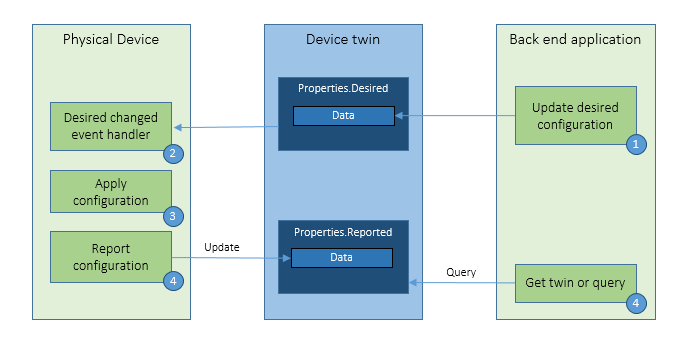
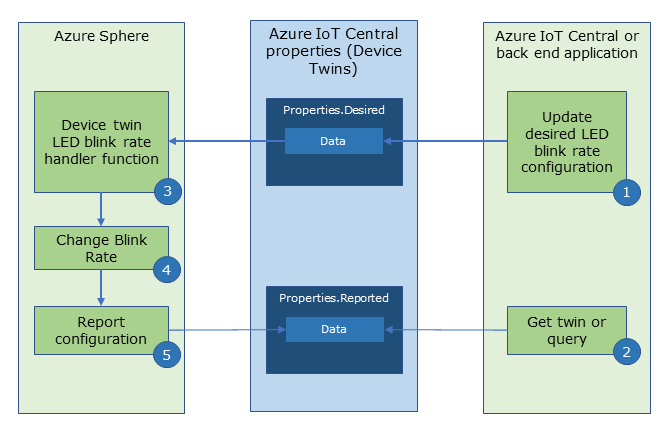
doco

diff --git a/zdocs/Lab_3_Control_Device_with_Device_Twins_and_Direct_Methods/README.md b/zdocs/Lab_3_Control_Device_with_Device_Twins_and_Direct_Methods/README.md
@@ -51,7 +51,7 @@ There are three ways that Azure IoT cloud applications can communicate with devi
 
 [Cloud-to-device](https://docs.microsoft.com/en-us/azure/iot-hub/iot-hub-devguide-messages-c2d) messages for one-way notifications to the device app.
 
-This lab will cover Azure Iot Device Twins and Direct Methods.
+This lab will cover Azure IoT Device Twins and Direct Methods.
 
 ---
 
@@ -65,19 +65,15 @@ Both Device Twins and Direct Methods provide a mechanism to invoke functionality
 
 ### Azure IoT Device Twins
 
-When you set a Device Twin property in Azure IoT you are setting the *desired* state of a property on the device. Azure IoT will send a desired state message to the device, the device then actions the request, for example, turn on a LED, and the device will then send a *reported* state message back to Azure IoT. Azure IoT then stores the *reported* state in the Azure IoT.
+When you set a Device Twin property in Azure IoT you are setting the *desired* state of a property. Azure IoT will send a desired state message to the device, the device then applies the action, for example, turn on a light. The device then sends a *reported* state message back to Azure IoT. Azure IoT then stores the *reported* state in the Azure IoT where it can be queried.
 
 Azure IoT Central uses this *reported* state to display the last synced state of a property.
-
-![](resources/device-twin-configuration-pattern.png)
 
 For more information refer to the [Understand and use device twins in IoT Hub](https://docs.microsoft.com/en-us/azure/iot-hub/iot-hub-devguide-device-twins?WT.mc_id=github-blog-dglover) article.
 
 ### Azure IoT Direct Methods
 
-Azure IoT Direct Methods are simpler. When you invoke a *Direct Method* from Azure, a message is sent to the device. This message includes the name of the direct method and a data payload. The device will action the request and then respond with an HTTP status code to indicate success or failure along with an optional message.
-
-![](resources/direct-method-pattern.png)
+When you invoke a *Direct Method* from Azure, a message is sent to the device. This message includes the name of the direct method and a data payload. The device will action the request and then respond with an HTTP status code to indicate success or failure of an action along with an optional message.
 
 For more information refer to the [Understand and invoke direct methods from IoT Hub](https://docs.microsoft.com/en-us/azure/iot-hub/iot-hub-devguide-direct-methods?WT.mc_id=github-blog-dglover) article.
 
@@ -85,11 +81,15 @@ For more information refer to the [Understand and invoke direct methods from IoT
 
 ## Device Twin Bindings
 
-In **main.c** there is a variable declared named **led1BlinkRate** of type **DeviceTwinBinding**. Variables of type **DeviceTwinBinding** declare a generalized model to define the relationship between an Azure IoT Device Twin and a handler function.
+Azure IoT Central uses Properties for device settings. Properties are implemented in Azure IoT Central using Azure IoT Device Twins.
 
 ### Declaring a Device Twin Binding
 
-The following example associates an Azure IoT Device Twin named **LedBlinkRate**, of type **TYPE_INT**, that will invoke a **handler** function named **DeviceTwinBlinkRateHandler**.
+In main.c a **DeviceTwinBinding** variable is declared named **led1BlinkRate**. This variable associates an Azure IoT Central property named **LedBlinkRate**, of type **TYPE_INT**, with a **handler** function named **DeviceTwinBlinkRateHandler**. 
+
+When the device receives a Device Twin message for property **led1BlinkRate**, the **handler** function named **DeviceTwinBlinkRateHandler** will be called.
+
+![](resources/device-twin-configuration-pattern.png)
 
 When the Device Property is updated in Azure IoT Central, the handler function will be called and LED1 blink rate will be changed.
 
@@ -163,17 +163,25 @@ DeviceTwinBinding* deviceTwinBindings[] = { &led1BlinkRate, &buttonPressed, &rel
 
 ## Direct Method Bindings
 
+Azure IoT Central uses Commands to control devices. Commands are implemented in Azure Iot Central using Azure IoT Direct Methods.
+
 Direct methods represent a request-reply interaction with a device similar to an HTTP call in that they succeed or fail immediately (after a user-specified timeout).
 
-When you invoke a *Direct Method* from Azure IoT, a message is sent to the device. This message includes the name of the direct method and a payload. The device will action the request and then respond with an HTTP status code to indicate success or failure along with an optional message.
+When you invoke a *Direct Method* from Azure IoT, a message is sent to the device. This message includes the name of the direct method and a payload. The device will apply the action and then respond with an HTTP status code to indicate success or failure along with an optional message.
+
+
 
 ### Declaring a Direct Method Binding
 
 Direct Method Bindings associate Azure IoT Direct Methods with a handler function. In the following example, when the device receives Azure IoT Direct Method named **ResetMethod**, the **ResetDirectMethod** handler function will be called.
 
+
+
 ```c
 static DirectMethodBinding resetDevice = { .methodName = "ResetMethod", .handler = ResetDirectMethod };
 ```
+
+![](resources/azure-direct-method-pattern.png)
 
 ### Direct Method Handler Function
 
